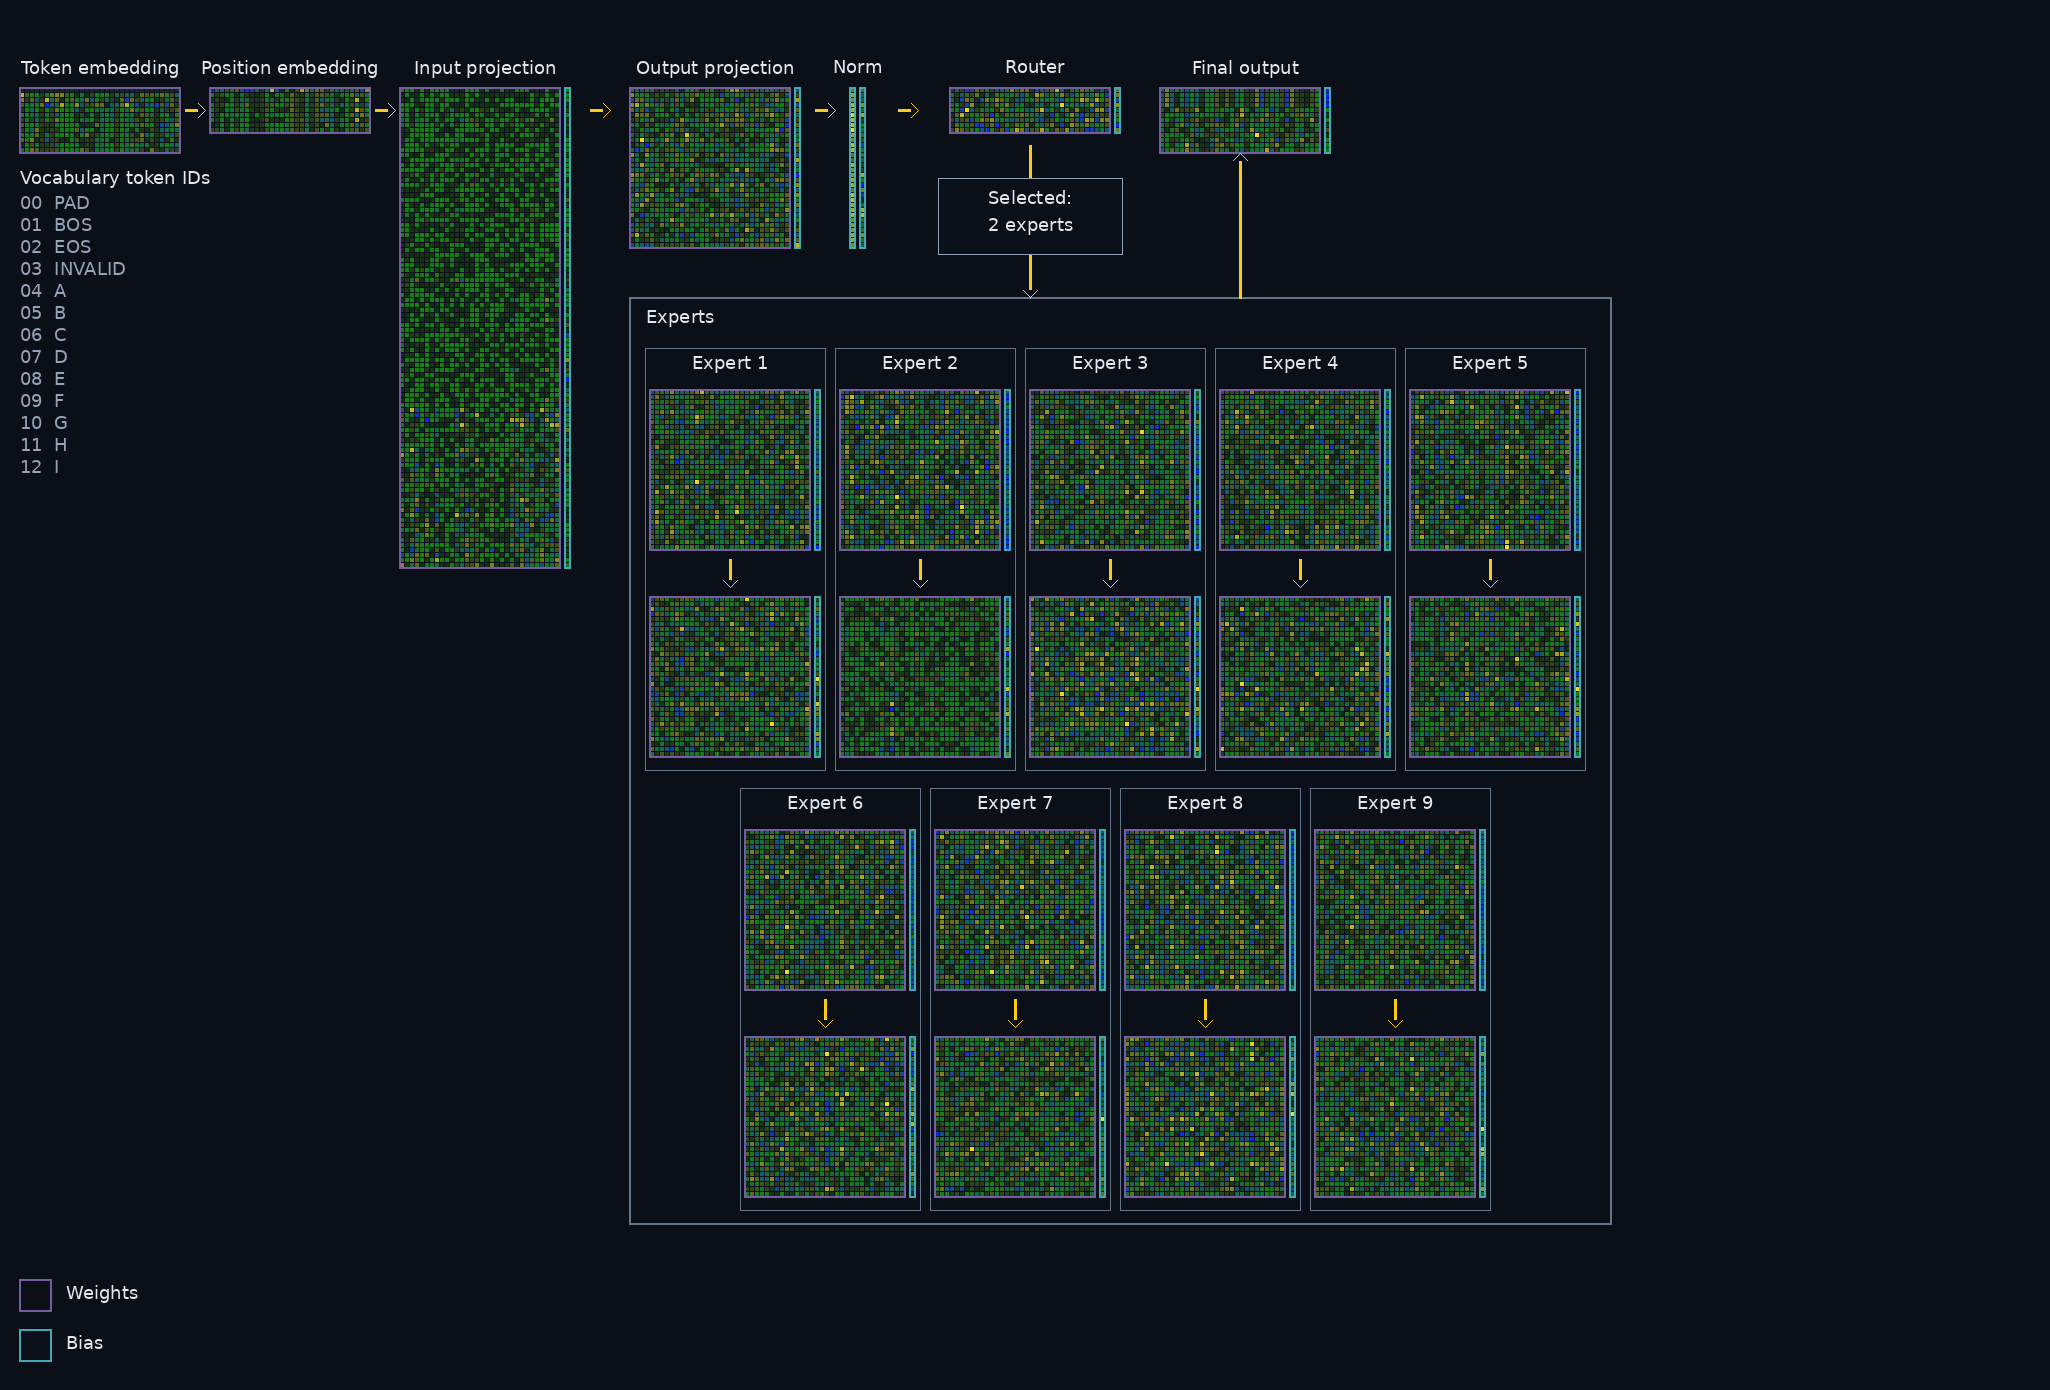
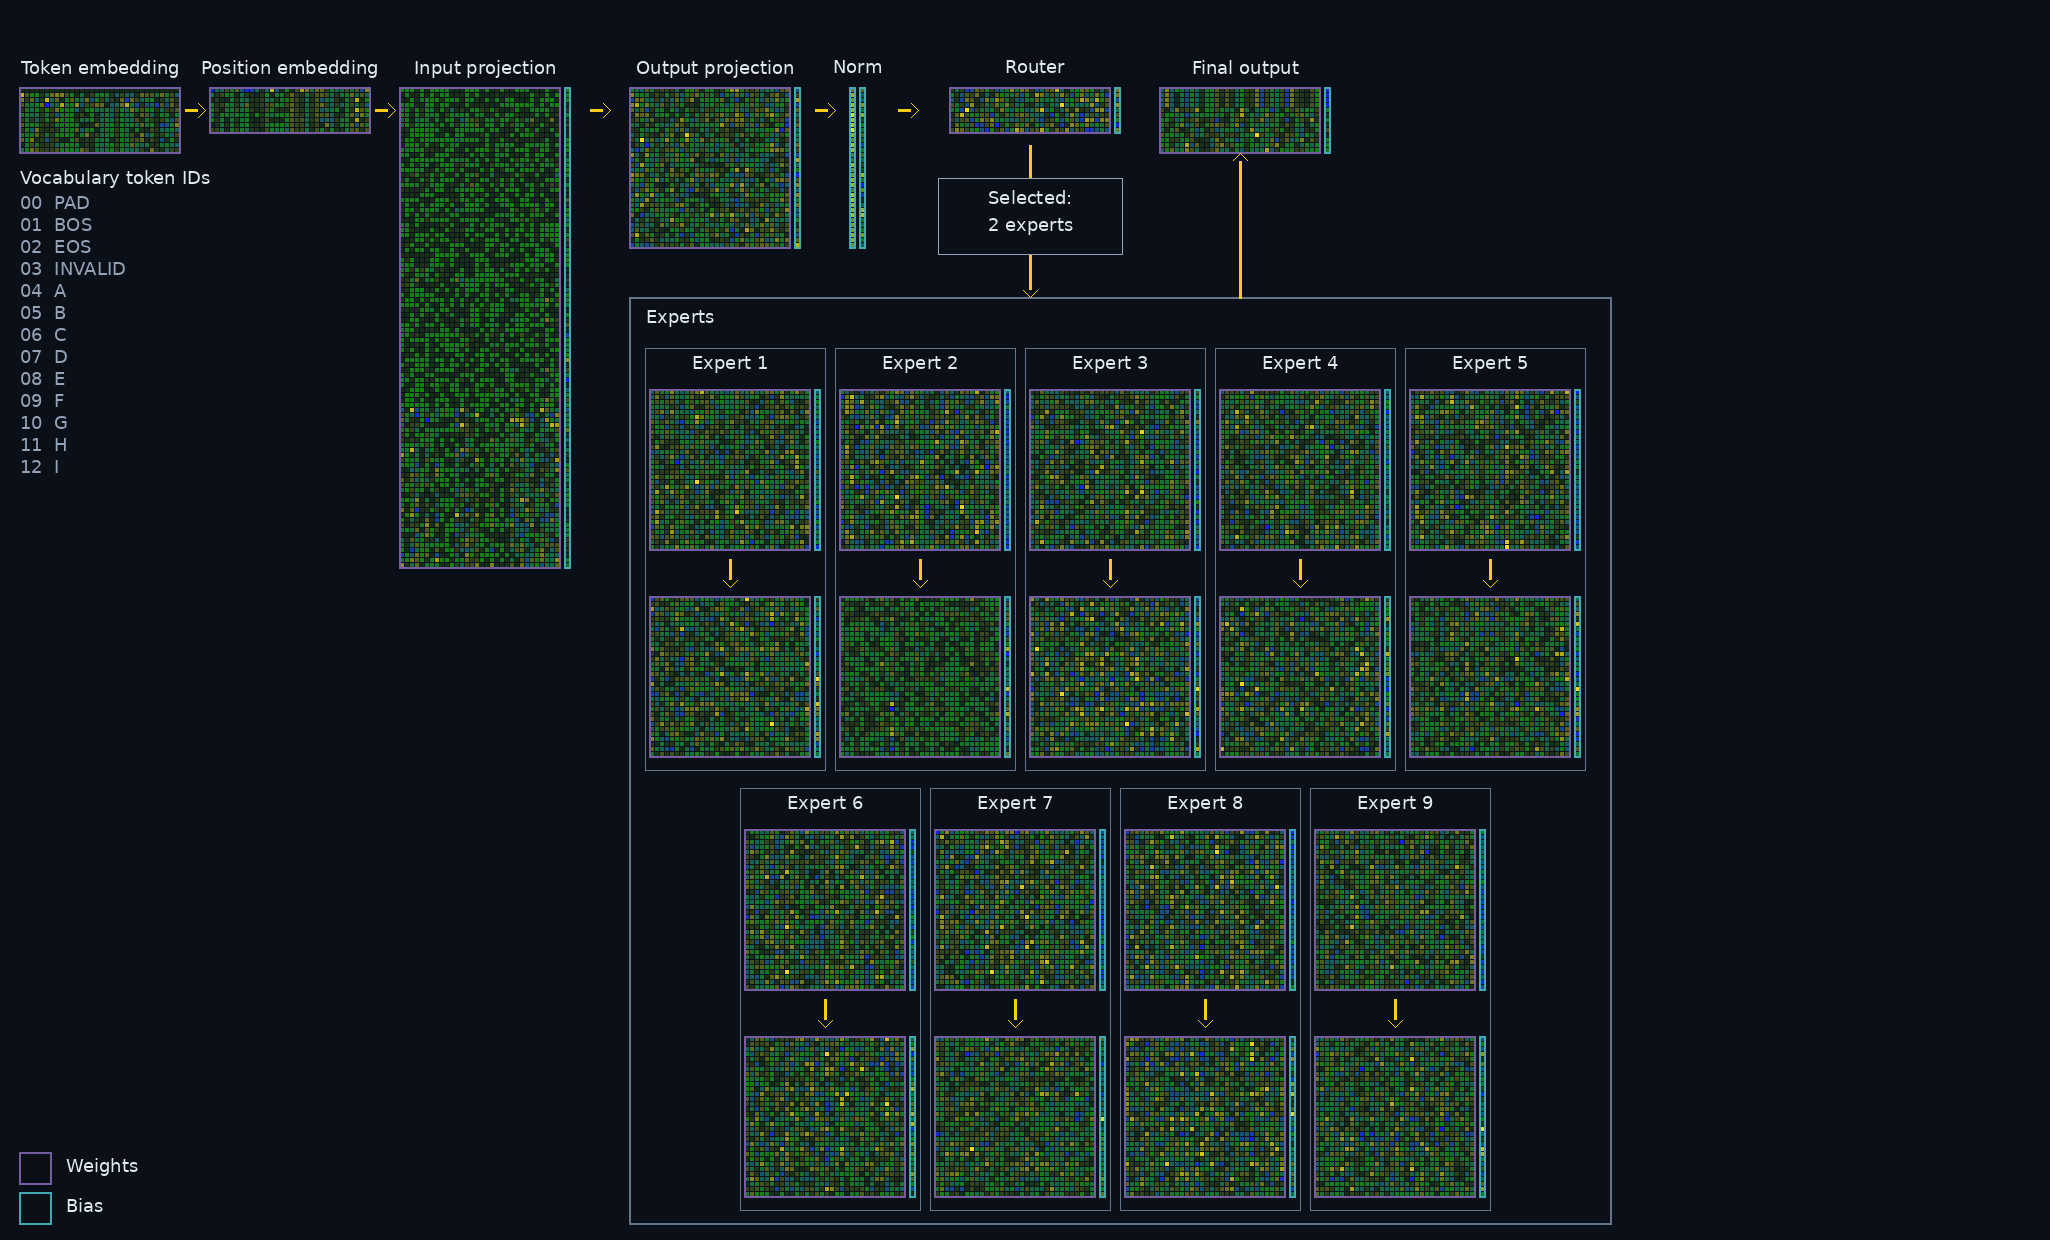
Crop tensor inspector canvas

Changed region(s): [[0.0, 0.0306, 0.7805, 0.9806], [0.0, 0.9194, 0.0624, 0.9806]]

diff --git a/tools/tensor_inspector.py b/tools/tensor_inspector.py
@@ -176,7 +176,7 @@ def _render_vocabulary(rgb: bytearray, width: int, x: int, y: int) -> None:
 def render_checkpoint_inspector(source: Path) -> tuple[bytes, dict[str, object]]:
     """Create a derived, architecture-flow map; it is not a byte transport artifact."""
     state = _checkpoint_state(source)
-    width, height = 2050, 1390
+    width, height = 2050, 1240
     rgb = bytearray(b"\x0b\x10\x18" * (width * height))
     inventory = {
         name: {"shape": list(tensor.shape), "dtype": str(tensor.dtype).replace("torch.", ""),
@@ -229,16 +229,16 @@ def render_checkpoint_inspector(source: Path) -> tuple[bytes, dict[str, object]]
     _arrow(rgb, width, output_return_x, expert_top, output_return_x, output_matrix_bottom)
 
     # Lower-left legend keeps the border semantics visible without competing with the column headers.
-    legend_x, weights_y, bias_y = 20, 1280, 1330
+    legend_x, weights_y, bias_y = 20, 1153, 1193
     _rectangle(rgb, width, legend_x, weights_y, 30, 30, _WEIGHT_BORDER, 2)
     _text(rgb, width, legend_x + 46, weights_y + 5, "Weights", _LABEL)
     _rectangle(rgb, width, legend_x, bias_y, 30, 30, _BIAS_BORDER, 2)
     _text(rgb, width, legend_x + 46, bias_y + 5, "Bias", _LABEL)
 
     metadata = {
-        "format": "crystal-9-tensor-inspector-v15", "source": source.name,
+        "format": "crystal-9-tensor-inspector-v16", "source": source.name,
         "source_sha256": hashlib.sha256(source.read_bytes()).hexdigest(), "tensor_count": len(state),
-        "normalization": "per-tensor symmetric max-absolute", "layout": "architecture-flow-v15",
+        "normalization": "per-tensor symmetric max-absolute", "layout": "architecture-flow-v16",
         "bias_alignment": "vertical output-row axis", "sections": ["inputs", "attention", "norm_router", "experts", "output"],
         "legend": {"WEIGHTS": "matrix; rows are output features", "BIAS": "bias column; one value per output row", "B": "bias column; one value per output row"},
         "expert_layout": "five Expert boxes over four Expert boxes; each contains its first and second layer",

diff --git a/tests/test_tensor_inspector.py b/tests/test_tensor_inspector.py
@@ -15,7 +15,7 @@ def test_checkpoint_inspector_renders_actual_tensor_inventory_as_png():
     assert metadata["tensors"]["attention.in_proj_weight"]["shape"] == [96, 32]
     assert metadata["tensors"]["experts.0.0.weight"]["shape"] == [32, 32]
     assert metadata["normalization"] == "per-tensor symmetric max-absolute"
-    assert metadata["layout"] == "architecture-flow-v15"
+    assert metadata["layout"] == "architecture-flow-v16"
     assert metadata["bias_alignment"] == "vertical output-row axis"
     assert metadata["sections"][-2:] == ["experts", "output"]
     assert metadata["legend"]["B"] == "bias column; one value per output row"

diff --git a/tools/export_tensor_inspectors.py b/tools/export_tensor_inspectors.py
@@ -31,7 +31,7 @@ def main() -> None:
             "tensor_count": metadata["tensor_count"], "width": metadata["width"], "height": metadata["height"],
             "normalization": metadata["normalization"], "derived": True,
         })
-    (OUTPUT.parent / "inspectors.json").write_text(json.dumps({"format": "crystal-9-tensor-inspector-v15", "inspectors": inspectors}, indent=2) + "\n")
+    (OUTPUT.parent / "inspectors.json").write_text(json.dumps({"format": "crystal-9-tensor-inspector-v16", "inspectors": inspectors}, indent=2) + "\n")
 
 
 if __name__ == "__main__":
